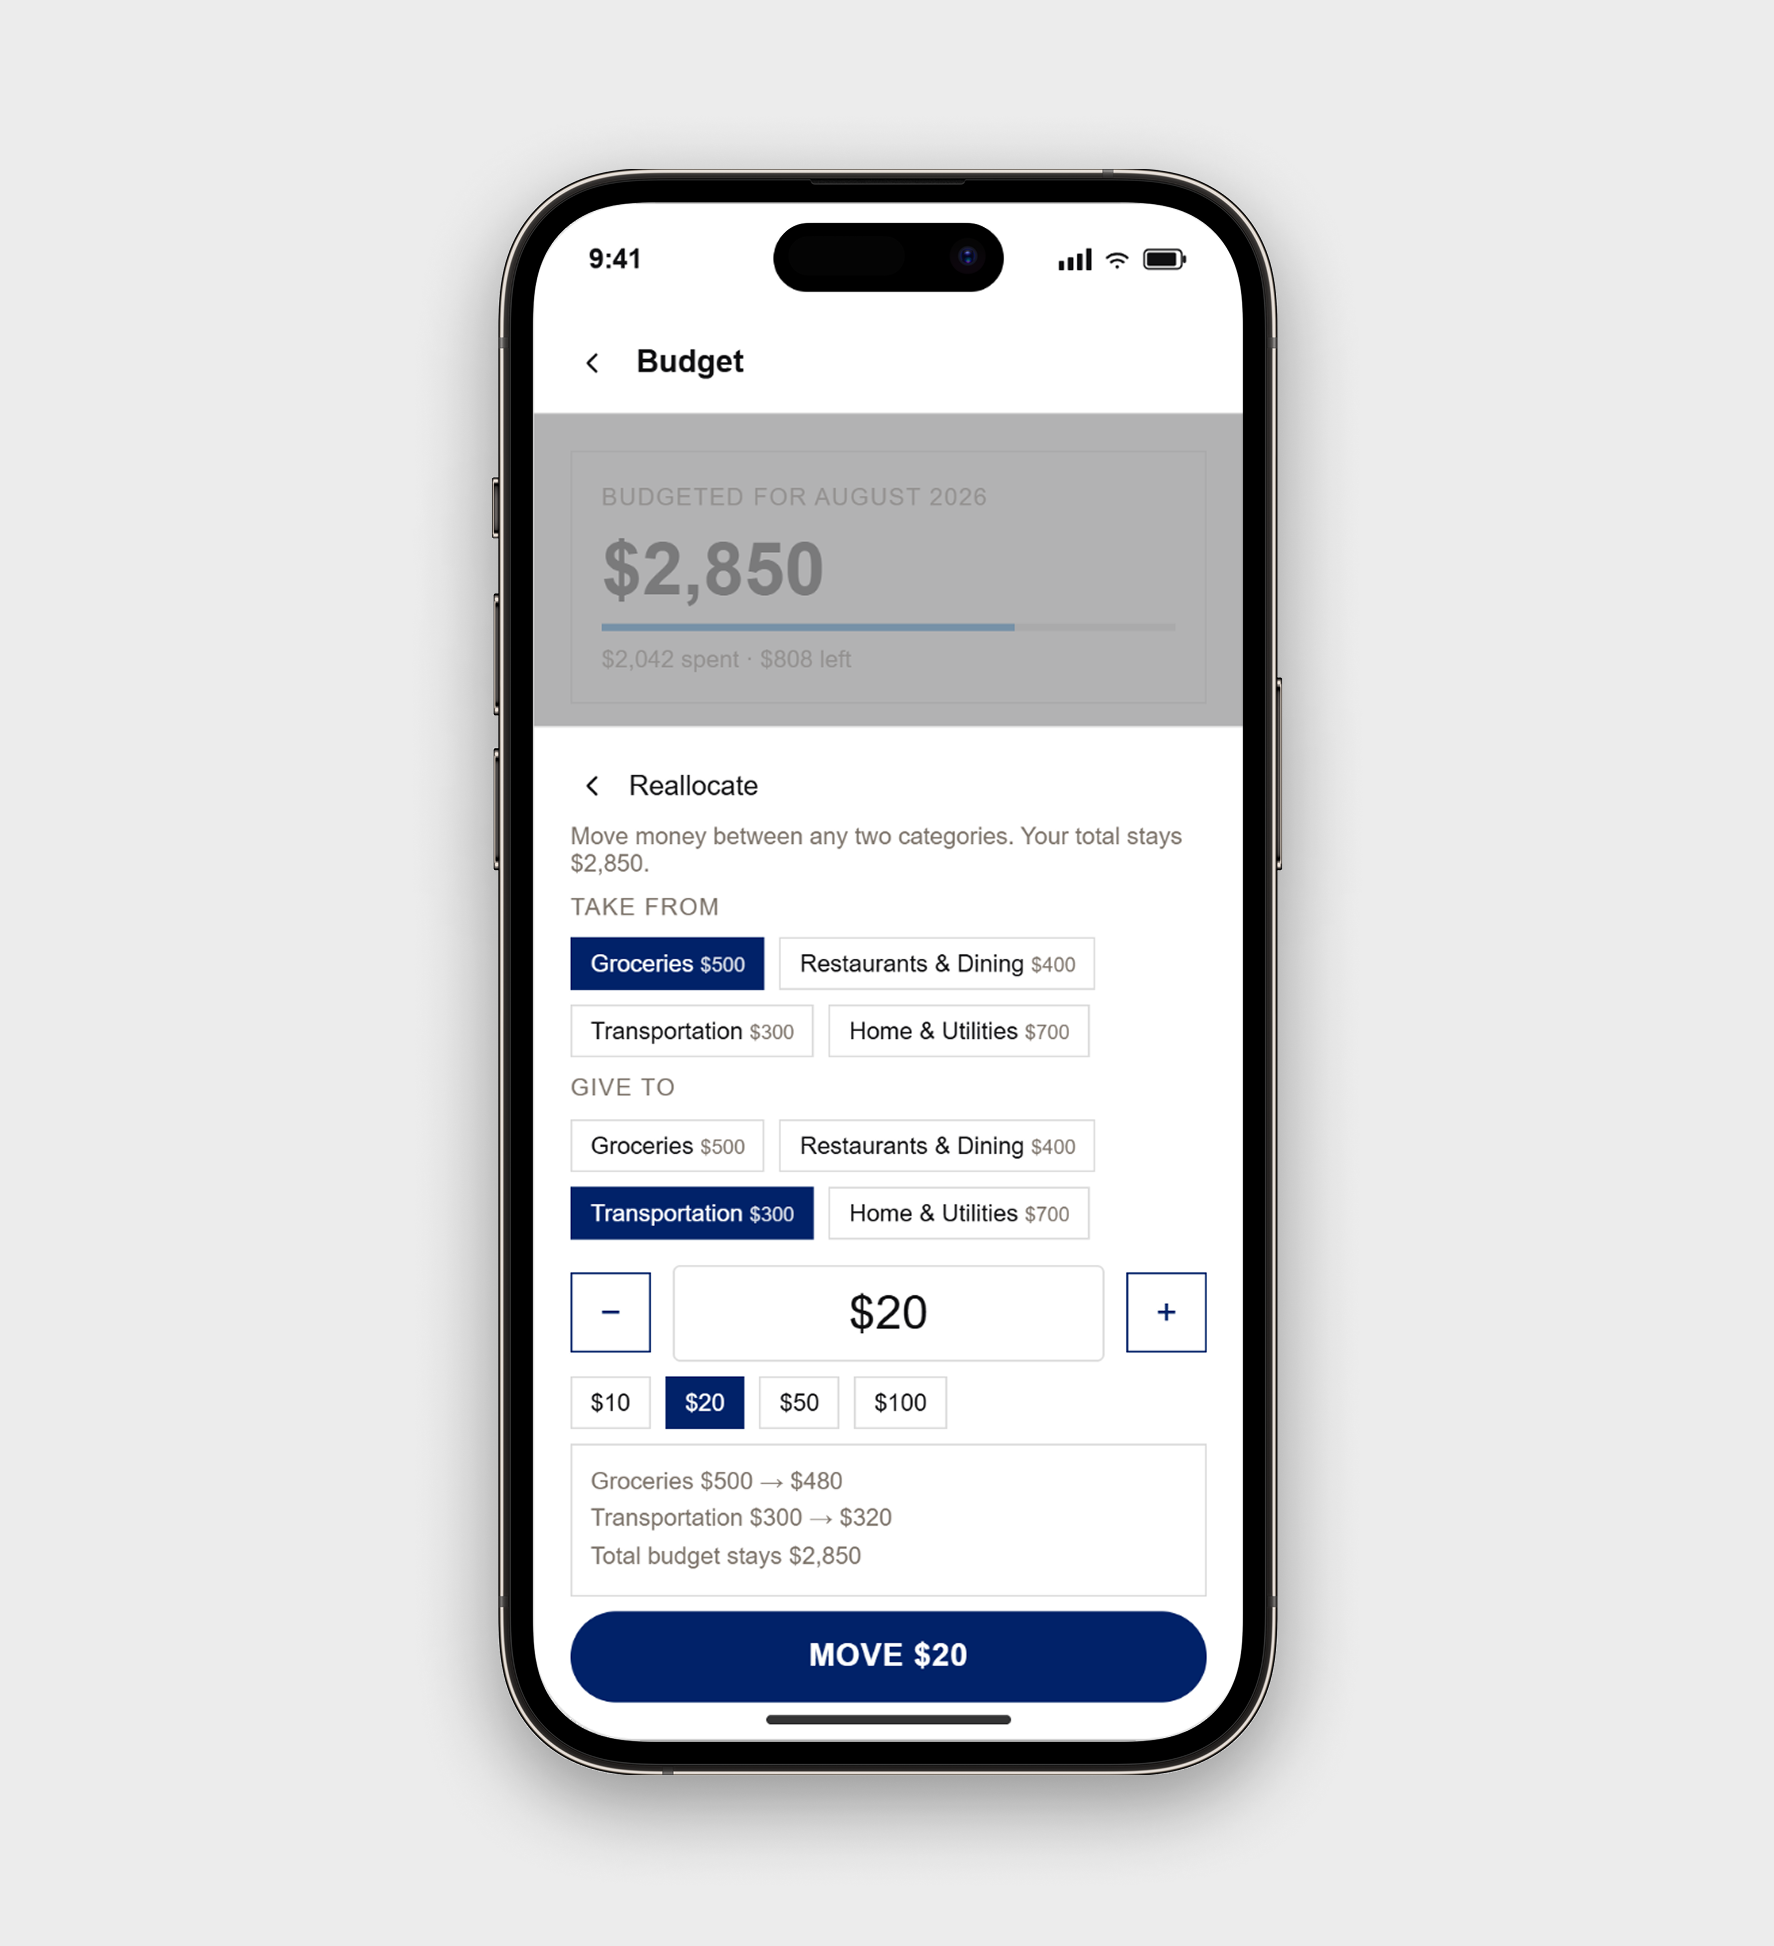
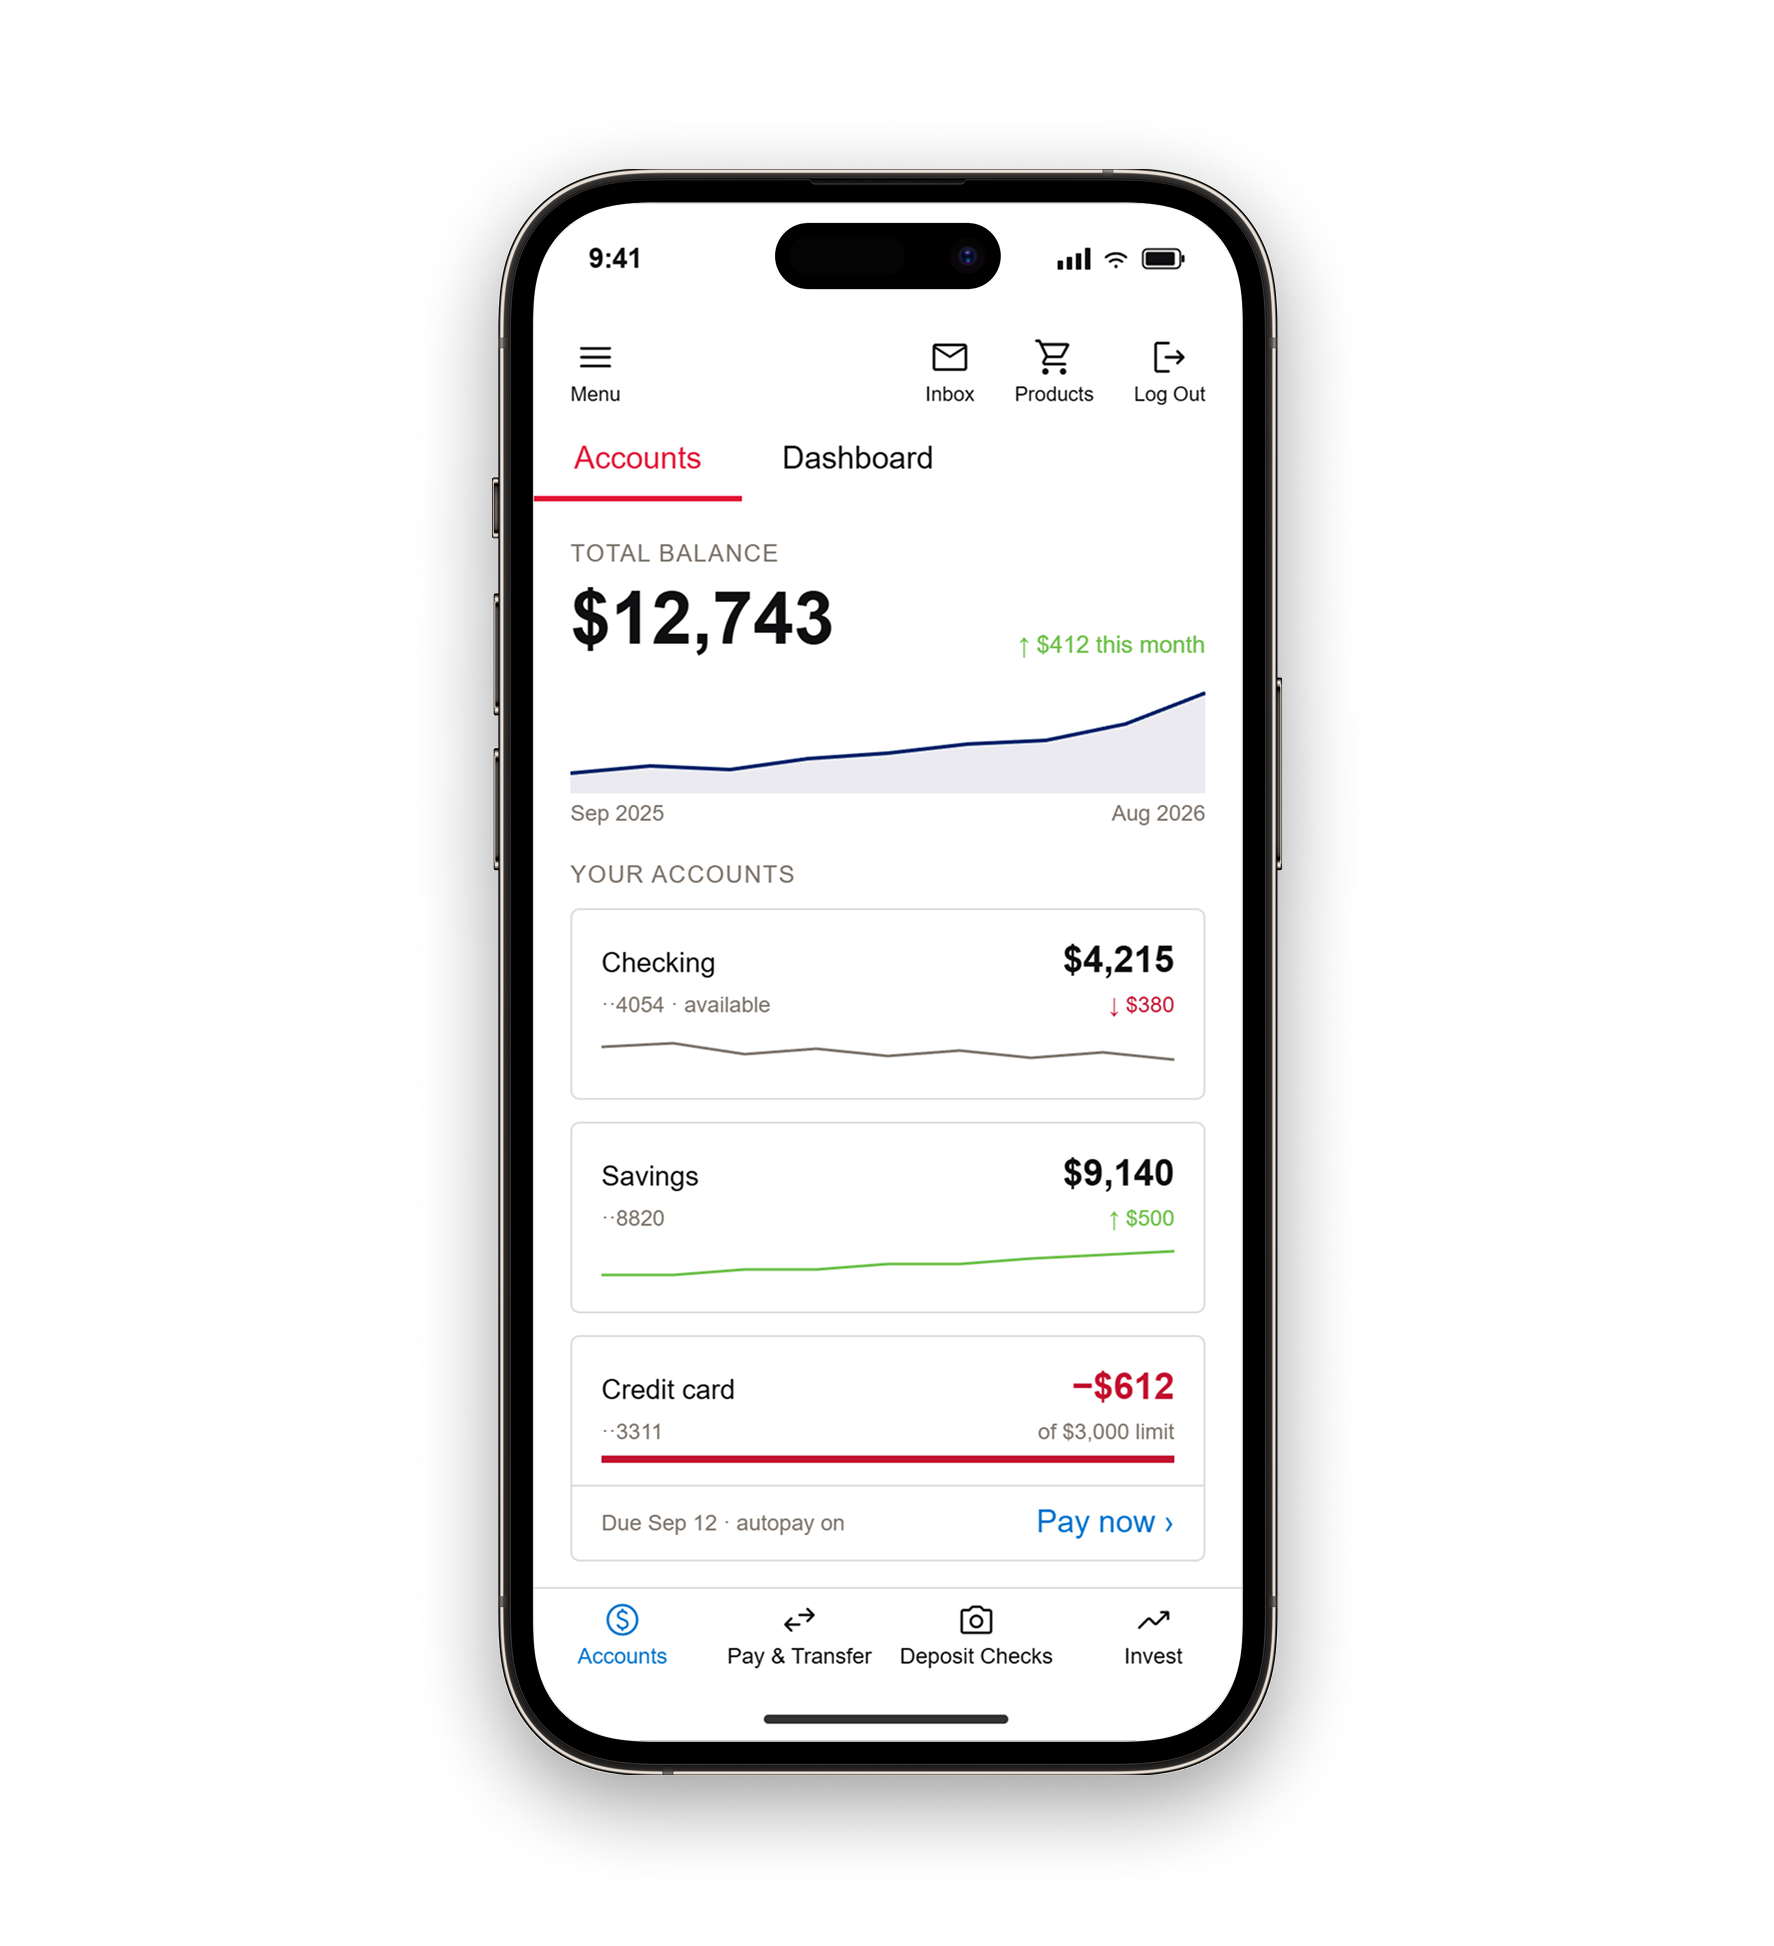
Centre the hero crop and swap the Last Message cover
Desktop renders the hero into a near-square box roughly 593x650, so a landscape
cover loses about a third of its width. Anchoring that crop to the right cut
into covers whose subject fills the frame; centring it splits the loss evenly
across both edges instead.

Point Last Message at its own cover rather than a framer-assets hash, and take
the re-exported BOA cover as it stands.

Changed region(s): [[0.279, 0.185, 0.7131, 0.8941], [0.5891, 0.1233, 0.6511, 0.1542]]

diff --git a/components/ProjectHero.module.css b/components/ProjectHero.module.css
@@ -32,6 +32,6 @@
   .details { animation-delay: 200ms; }
 }
 
-@media (min-width: 810px) { .wrap { gap: 40px; } .summary { font-size: 1.125rem; } .hero { display: grid; grid-template-columns: minmax(0, 1.05fr) minmax(0, 1fr); grid-template-areas: "title image" "summary image" "details image"; column-gap: 48px; row-gap: 28px; align-items: start; } .title { grid-area: title; } .image { grid-area: image; height: 100%; } .image img { height: 100%; object-fit: cover; object-position: right center; } .summary { grid-area: summary; align-self: end; } .details { grid-area: details; } }
+@media (min-width: 810px) { .wrap { gap: 40px; } .summary { font-size: 1.125rem; } .hero { display: grid; grid-template-columns: minmax(0, 1.05fr) minmax(0, 1fr); grid-template-areas: "title image" "summary image" "details image"; column-gap: 48px; row-gap: 28px; align-items: start; } .title { grid-area: title; } .image { grid-area: image; height: 100%; } .image img { height: 100%; object-fit: cover; object-position: center; } .summary { grid-area: summary; align-self: end; } .details { grid-area: details; } }
 @media (min-width: 1200px) { .wrap { gap: 48px; } .title { font-size: clamp(3rem, 2rem + 2.6vw, 4rem); } .summary { font-size: 1.125rem; } .hero { column-gap: 64px; } .facts { gap: 28px 44px; padding: 30px 0; } .meta { grid-template-columns: repeat(4, minmax(0, 1fr)); gap: 24px; } .action { min-height: 48px; padding: 14px 22px; font-size: .9375rem; } }
 @media (max-width: 639px) { .summary { width: 100%; max-width: 100%; } .facts, .meta { grid-template-columns: 1fr; } }

diff --git a/app/project/lastmessage/page.jsx b/app/project/lastmessage/page.jsx
@@ -235,8 +235,8 @@ export default function LastMessagePage() {
               label="Professional Work"
               discipline={"Product Design · AI Interaction · 2026"}
               title="Last Message"
-              image={img("0e9348c3cf750b5b00ab3ec032f26a2cc73e4197.png")}
-              imageAlt="Last Message title screen with chat messages from the AI character Midnight"
+              image="/lastmessage/cover.png"
+              imageAlt="Last Message title screen on a laptop, its glitched terminal art reading Detctive ARG"
               summary="An AI-driven interactive web experience built around conversation, fragmented information, and non-linear exploration."
               problem="Fragmented information usually forces people down one fixed path."
               contribution="UX, UI, AI interaction rules, and the functional website."
